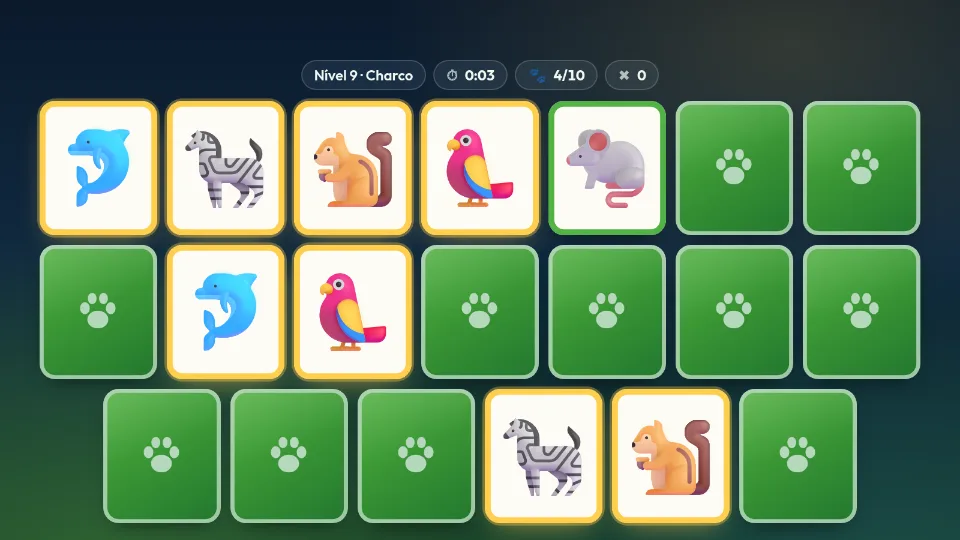
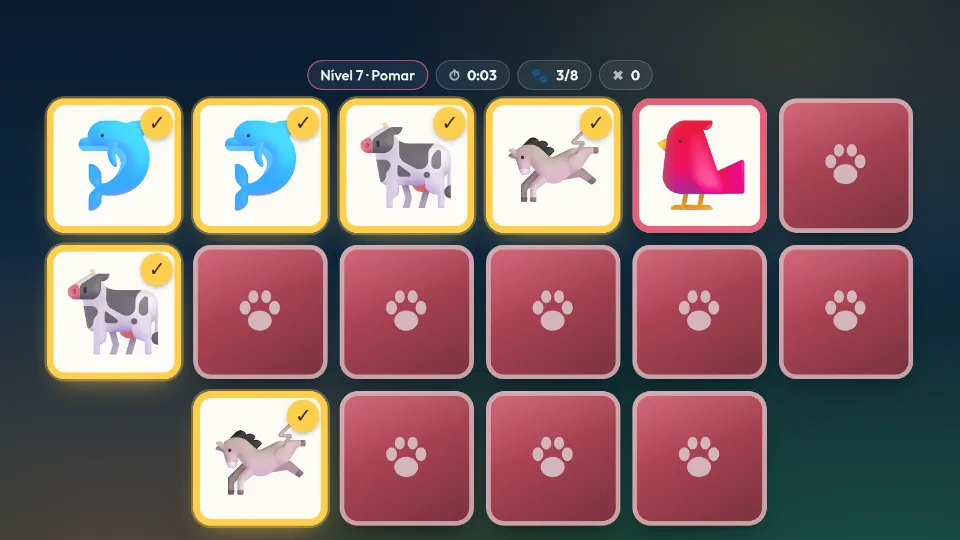
Memória Animal: uma cor por nível e patinhas nas miniaturas
Cada um dos 24 níveis tem a sua cor, a condizer com o nome (a Colmeia é
cor de mel, o Oceano é azul, a Arca é roxa). Enquanto o nível está
apontado ou a ser jogado, é o acento do jogo inteiro: botões, título,
barra de progresso, costas e moldura das cartas e HUD. Vai em
--level-accent no <html>, e os tons escuros saem de color-mix.

- Nos cartões do carrossel, cada nível na sua cor, e a patinha das
  costas desenhada em cada carta da miniatura
- Os pares encontrados levam um visto no canto: nos níveis cor de mel a
  moldura dourada sozinha confundia-se com a normal
- HUD numa linha só num telemóvel ao alto
- Capa nova, no nível 7 (Pomar)

Claude-Session: https://claude.ai/code/session_01HoxUCZ3gVdm8t7CDg86FRW

diff --git a/src/MarquitosArcade/wwwroot/games/memoria-animal/css/theme.css b/src/MarquitosArcade/wwwroot/games/memoria-animal/css/theme.css
@@ -1,7 +1,13 @@
 /*
  * Tokens da Memória Animal — a variante "glass" dos outros jogos da arcada, com
- * os mesmos nomes de token, pintada com as cores da quinta: o verde do prado
- * (o das molduras das cartas de papel) e o azul do céu.
+ * os mesmos nomes de token.
+ *
+ * O acento não é fixo: cada nível tem a sua cor (`accent` em js/levels.js), e
+ * o JS escreve-a em `--level-accent` no <html> sempre que o nível apontado
+ * muda — no menu e ao jogar. Daí descem o `--accent` e as cores das cartas, e o
+ * jogo todo (botões, título, costas e moldura das cartas, carrossel) muda de
+ * cor com o nível: a Colmeia é cor de mel, o Oceano é azul, a Arca é roxa. O
+ * verde do prado é só a cor de partida, antes de o JS correr.
  *
  * Só existe a variante escura, pela mesma razão do Maze Run: os ecrãs estão
  * sempre por cima do tabuleiro, e vidro claro por cima de cartas brancas não
@@ -10,7 +16,7 @@
 
 :root {
     /* acentos */
-    --accent: #7ddc5a;
+    --accent: var(--level-accent, #7ddc5a);
     --accent-2: #4cc3ff;
     --accent-3: #ff7a8a;
     --gold: #ffcf4d;
@@ -33,16 +39,18 @@
     --blur-soft: 10px;
 
     /* o véu que separa o vidro do tabuleiro por trás */
-    --scrim: radial-gradient(ellipse at 50% 18%, rgba(24, 70, 60, 0.55), rgba(5, 12, 20, 0.82) 68%);
+    --scrim: radial-gradient(ellipse at 50% 18%, color-mix(in srgb, var(--accent) 22%, rgba(8, 20, 24, 0.6)), rgba(5, 12, 20, 0.84) 68%);
 
-    --ring: rgba(125, 220, 90, 0.45);
-    --glow: rgba(125, 220, 90, 0.35);
+    --ring: color-mix(in srgb, var(--accent) 45%, transparent);
+    --glow: color-mix(in srgb, var(--accent) 35%, transparent);
 
     /* cartas */
     --card-face: #fdfcf5;
-    --card-frame: #52b346;
-    --card-back-1: #6fd34f;
-    --card-back-2: #2f8d3f;
+    /* As cartas vão buscar a cor do nível: a moldura e as costas, do tom
+       claro em cima para o escuro em baixo. */
+    --card-frame: color-mix(in srgb, var(--accent) 88%, #000);
+    --card-back-1: var(--accent);
+    --card-back-2: color-mix(in srgb, var(--accent) 55%, #0b1410);
     --card-matched: #ffcf4d;
 
     /* geometria */

diff --git a/src/MarquitosArcade/wwwroot/games/memoria-animal/css/board.css b/src/MarquitosArcade/wwwroot/games/memoria-animal/css/board.css
@@ -72,7 +72,7 @@
 }
 
 /*
- * As costas: verde do prado com uma pata ao centro. A pata é um SVG embutido
+ * As costas: a cor do nível com uma pata ao centro. A pata é um SVG embutido
  * (não um emoji) para ser igual em todos os aparelhos, e o risco de luz em cima
  * é o mesmo "vidro" dos painéis.
  */
@@ -94,14 +94,14 @@
     position: absolute;
     inset: 0;
     border-radius: inherit;
-    background: rgba(47, 141, 63, 0.35);
+    background: color-mix(in srgb, var(--card-back-2) 40%, transparent);
     mix-blend-mode: multiply;
 }
 
 .card:hover .cardBack { filter: brightness(1.08); }
 .card:active .cardBack { filter: brightness(0.96); }
 
-/* A face: branca, com a moldura verde das cartas de papel. */
+/* A face: branca, com a moldura das cartas de papel, na cor do nível. */
 .cardFront {
     transform: rotateY(180deg);
     background: var(--card-face);
@@ -127,6 +127,30 @@
         inset 0 0 0 max(3px, calc(var(--card-w, 80px) * 0.05)) var(--card-matched),
         0 0 0 2px rgba(255, 207, 77, 0.35),
         0 10px 24px -10px rgba(255, 207, 77, 0.6);
+}
+
+/*
+ * E um visto no canto. A moldura dourada não chega sozinha: nos níveis cor de
+ * mel (a Colmeia, a Savana) a moldura normal já é quase dourada, e o visto é
+ * o que diz, em qualquer cor, que aquele par já está feito.
+ */
+.card.is-matched .cardFront::after {
+    content: "✓";
+    position: absolute;
+    top: 6%;
+    right: 6%;
+    display: grid;
+    place-items: center;
+    width: max(14px, calc(var(--card-w, 80px) * 0.24));
+    height: max(14px, calc(var(--card-w, 80px) * 0.24));
+    font-family: var(--font-display);
+    font-size: max(9px, calc(var(--card-w, 80px) * 0.15));
+    font-weight: 800;
+    line-height: 1;
+    color: #3b2a00;
+    border-radius: 50%;
+    background: var(--card-matched);
+    box-shadow: 0 2px 6px -2px rgba(0, 0, 0, 0.5);
 }
 
 .card.is-matched { animation: cardMatch 0.5s ease 0.2s both; }

diff --git a/src/MarquitosArcade/wwwroot/games/memoria-animal/js/levels.js b/src/MarquitosArcade/wwwroot/games/memoria-animal/js/levels.js
@@ -11,7 +11,8 @@ import {
 
 /**
  * Um nome por nível, uma palavra cada: aparece no HUD, que num telemóvel é
- * estreito. Vão do ninho à arca — a do Noé, com a bicharada toda.
+ * estreito. Vão do ninho à arca — a do Noé, com a bicharada toda. Um nível a
+ * mais do que os nomes (ou as cores) chamava-se "Nível N" e repetia as cores.
  */
 const NAMES = [
     'Ninho', 'Capoeira', 'Pocilga', 'Curral', 'Estábulo', 'Celeiro',
@@ -21,9 +22,24 @@ const NAMES = [
 ];
 
 /**
+ * A cor de cada nível, a condizer com o nome: a Colmeia é cor de mel, o
+ * Oceano é azul, a Arca é roxa. É o acento do jogo inteiro enquanto o nível
+ * está apontado ou a ser jogado (ver `applyLevelAccent` em level.js). São
+ * todas claras de propósito: o texto dos botões, escuro, tem de se ler em
+ * cima de qualquer uma, e a patinha branca das costas das cartas também.
+ */
+const ACCENTS = [
+    '#f2b35a', '#ff9f5a', '#ff8fb1', '#e8a36b', '#7fb2ff', '#ff7a6b',
+    '#ff6f8a', '#7ddc5a', '#4fd1c5', '#5ab8f2', '#ffcf4d', '#5ccf8e',
+    '#9bd35a', '#c9b458', '#c99a6b', '#8fa9d9', '#b59cf2', '#7fc4a0',
+    '#f2c14e', '#f5a25d', '#3ed598', '#ff7f6e', '#4aa8ff', '#c58cff'
+];
+
+/**
  * @typedef {object} Level
  * @property {number} id Número do nível, a começar em 1.
  * @property {string} name
+ * @property {string} accent A cor do nível.
  * @property {number} cards Cartas no tabuleiro (sempre par).
  * @property {number} pairs
  * @property {number} par Tempo-alvo em segundos.
@@ -39,6 +55,7 @@ for (let cards = FIRST_LEVEL_CARDS, id = 1; cards <= MAX_CARDS; cards += CARDS_S
     LEVELS.push({
         id,
         name: NAMES[id - 1] || `Nível ${id}`,
+        accent: ACCENTS[(id - 1) % ACCENTS.length],
         cards,
         pairs,
         par: pairs * PAR_SECONDS_PER_PAIR,

diff --git a/src/MarquitosArcade/wwwroot/games/memoria-animal/css/controls.css b/src/MarquitosArcade/wwwroot/games/memoria-animal/css/controls.css
@@ -178,9 +178,10 @@ button { cursor: pointer; }
 
 .levelCard:hover { background: var(--glass-bg-hover); transform: translateY(-2px); }
 
+/* Cada cartão tem a cor do seu nível (`--card-accent`, escrita pelo js/menu.js). */
 .levelCard.active {
-    border-color: var(--accent);
-    background: linear-gradient(150deg, rgba(125, 220, 90, 0.2), rgba(76, 195, 255, 0.1));
+    border-color: var(--card-accent, var(--accent));
+    background: linear-gradient(150deg, color-mix(in srgb, var(--card-accent, var(--accent)) 24%, transparent), rgba(255, 255, 255, 0.03));
 }
 
 /*
@@ -223,19 +224,27 @@ button { cursor: pointer; }
     height: 100%;
 }
 
-/* As cartas da miniatura: as costas verdes, como no jogo. */
-.boardShape rect {
-    fill: var(--card-back-1);
-    stroke: rgba(255, 255, 255, 0.75);
+/*
+ * As cartas da miniatura: as costas na cor do nível, com a patinha branca,
+ * como no jogo. A patinha é o símbolo #paw do index.html.
+ */
+.boardShape .tile {
+    fill: var(--card-accent, var(--accent));
+    stroke: rgba(255, 255, 255, 0.8);
     stroke-width: 0.6;
 }
 
-.levelCard.is-done .boardShape rect { fill: var(--card-back-2); stroke: var(--card-matched); }
+.boardShape .paw { fill: rgba(255, 255, 255, 0.85); }
 
-.boardShape.is-locked rect {
-    fill: rgba(241, 247, 238, 0.16);
-    stroke: rgba(241, 247, 238, 0.25);
+/* Nível concluído: a moldura dourada dos pares encontrados. */
+.levelCard.is-done .boardShape .tile { stroke: var(--card-matched); stroke-width: 0.9; }
+
+.boardShape.is-locked .tile {
+    fill: rgba(241, 247, 238, 0.14);
+    stroke: rgba(241, 247, 238, 0.22);
 }
+
+.boardShape.is-locked .paw { fill: rgba(241, 247, 238, 0.18); }
 
 .levelLock {
     position: absolute;

diff --git a/src/MarquitosArcade/wwwroot/games/memoria-animal/js/menu.js b/src/MarquitosArcade/wwwroot/games/memoria-animal/js/menu.js
@@ -60,7 +60,10 @@ function boardPreviewSvg(level, { locked }) {
         const shift = ((cols - inRow) * grid.cardW) / 2;
         const x = x0 + shift + (i % cols) * grid.cardW;
         const y = y0 + row * grid.cardH;
-        rects.push(`<rect x="${x.toFixed(1)}" y="${y.toFixed(1)}" width="${w.toFixed(1)}" height="${h.toFixed(1)}" rx="${(w * 0.18).toFixed(1)}"/>`);
+        rects.push(`<rect class="tile" x="${x.toFixed(1)}" y="${y.toFixed(1)}" width="${w.toFixed(1)}" height="${h.toFixed(1)}" rx="${(w * 0.18).toFixed(1)}"/>`);
+        // A patinha ao centro da carta, com metade da largura dela.
+        const paw = w * 0.56;
+        rects.push(`<use class="paw" href="#paw" x="${(x + (w - paw) / 2).toFixed(1)}" y="${(y + (h - paw) / 2).toFixed(1)}" width="${paw.toFixed(1)}" height="${paw.toFixed(1)}"/>`);
     }
 
     return `<svg class="boardShape${locked ? ' is-locked' : ''}" viewBox="0 0 ${PREVIEW_W} ${PREVIEW_H}"
@@ -88,7 +91,7 @@ function levelCard(level) {
         : `Nível ${level.id}, ${level.name}, ${level.cards} cartas — bloqueado, conclui o nível ${level.id - 1}`;
 
     return `<button type="button" class="levelCard${unlocked ? '' : ' is-locked'}${best ? ' is-done' : ''}"
-        data-value="${level.id}" aria-label="${escapeHtml(label)}">
+        data-value="${level.id}" aria-label="${escapeHtml(label)}" style="--card-accent: ${level.accent}">
         <span class="levelShape">
             ${boardPreviewSvg(level, { locked: !unlocked })}
             ${unlocked ? '' : '<span class="levelLock" aria-hidden="true">🔒</span>'}

diff --git a/src/MarquitosArcade/wwwroot/games/memoria-animal/js/level.js b/src/MarquitosArcade/wwwroot/games/memoria-animal/js/level.js
@@ -44,6 +44,15 @@ function resetGame() {
 }
 
 /**
+ * A cor do nível passa a ser a do jogo todo: o `--accent` do css/theme.css
+ * desce do `--level-accent` do <html>. Chama-se sempre que o nível apontado
+ * muda — no menu e ao começar um nível.
+ */
+export function applyLevelAccent(level) {
+    document.documentElement.style.setProperty('--level-accent', level.accent);
+}
+
+/**
  * O tabuleiro que se vê por trás do vidro nos menus: as cartas do nível
  * apontado, viradas para cima. É só enfeite — ao jogar, baralha-se de novo.
  */
@@ -51,6 +60,7 @@ export function showMenuBoard(levelId) {
     const level = levelById(levelId);
     if (!level) return;
     game.level = level;
+    applyLevelAccent(level);
     game.cards = buildBoard(dealCards(level.pairs));
     for (const card of game.cards) setCardUp(card, true);
     updateHud();
@@ -67,6 +77,7 @@ export function startLevel(levelId) {
     resetGame();
     const mine = generation;
     game.level = level;
+    applyLevelAccent(level);
     game.phase = 'loading';
     game.cards = buildBoard(dealCards(level.pairs));
     els.playArea.classList.add('is-live');

diff --git a/src/MarquitosArcade/wwwroot/games/memoria-animal/index.html b/src/MarquitosArcade/wwwroot/games/memoria-animal/index.html
@@ -45,6 +45,18 @@
 </head>
 
 <body>
+    <!-- A patinha das costas das cartas, para as miniaturas dos tabuleiros no
+         carrossel dos níveis (js/menu.js). É a mesma do css/board.css. -->
+    <svg width="0" height="0" style="position:absolute" aria-hidden="true" focusable="false">
+        <symbol id="paw" viewBox="0 0 64 64">
+            <ellipse cx="32" cy="42" rx="13" ry="11"/>
+            <ellipse cx="16" cy="28" rx="6" ry="7.5"/>
+            <ellipse cx="48" cy="28" rx="6" ry="7.5"/>
+            <ellipse cx="25" cy="16" rx="5.5" ry="7"/>
+            <ellipse cx="39" cy="16" rx="5.5" ry="7"/>
+        </symbol>
+    </svg>
+
     <!-- Ecrã de arranque: fica no ar pelo menos 2s (ver lib/arcade/splash.js). -->
     <div id="arcadeSplash" class="arcade-splash">
         <div class="arcade-splash-rays" aria-hidden="true"></div>

diff --git a/src/MarquitosArcade/wwwroot/games/memoria-animal/css/hud.css b/src/MarquitosArcade/wwwroot/games/memoria-animal/css/hud.css
@@ -101,7 +101,7 @@
 
 .hudChip i { font-style: normal; font-size: 12px; }
 .hudChip b { color: var(--text); font-weight: 700; font-variant-numeric: tabular-nums; }
-.hudChip--level { color: var(--text); }
+.hudChip--level { color: var(--text); border-color: color-mix(in srgb, var(--accent) 65%, transparent); }
 
 /*
  * A mensagem por cima do HUD: "Olha bem…" na pré-visualização e o nome do
@@ -144,6 +144,13 @@
     .hudChip { padding: 4px 10px; font-size: 12px; }
 }
 
-@media (max-width: 380px) {
+/* Telemóvel ao alto: as quatro pastilhas têm de caber numa linha — cada linha
+   a mais é altura que as cartas perdem. */
+@media (max-width: 440px) {
+    .hud { gap: 5px; }
     .hudChip { padding: 5px 9px; font-size: 12px; gap: 4px; }
+}
+
+@media (max-width: 360px) {
+    .hudChip { padding: 4px 7px; font-size: 11px; }
 }

diff --git a/src/MarquitosArcade/wwwroot/games/memoria-animal/css/base.css b/src/MarquitosArcade/wwwroot/games/memoria-animal/css/base.css
@@ -80,7 +80,7 @@ html, body {
 body {
     background:
         radial-gradient(60vmax 40vmax at 82% 8%, rgba(255, 207, 77, 0.16), transparent 70%),
-        radial-gradient(80vmax 50vmax at 12% 104%, rgba(125, 220, 90, 0.28), transparent 70%),
+        radial-gradient(80vmax 50vmax at 12% 104%, color-mix(in srgb, var(--accent) 26%, transparent), transparent 70%),
         radial-gradient(70vmax 40vmax at 92% 110%, rgba(76, 195, 255, 0.18), transparent 70%),
         linear-gradient(180deg, #0b1a2c 0%, #10293f 46%, #123524 100%);
 }

diff --git a/src/MarquitosArcade/wwwroot/games/memoria-animal/css/screens.css b/src/MarquitosArcade/wwwroot/games/memoria-animal/css/screens.css
@@ -90,7 +90,7 @@
     font-size: 26px;
     border: 1px solid var(--glass-border-strong);
     border-radius: 18px;
-    background: linear-gradient(150deg, rgba(125, 220, 90, 0.3), rgba(76, 195, 255, 0.22));
+    background: linear-gradient(150deg, color-mix(in srgb, var(--accent) 32%, transparent), rgba(76, 195, 255, 0.2));
 }
 
 .title {

diff --git a/README.md b/README.md
@@ -829,7 +829,19 @@ alto, 3 × 1 ao comprido, 3 × 2 no computador —, com o carrossel partilhado d
 SDK (`lib/arcade/carousel.js`) e a folha `css/carousel.css` gémea da do Maze
 Run (ver [O carrossel dos níveis](#o-carrossel-dos-níveis)). Onde o Maze Run
 desenha o labirinto, aqui vai o tabuleiro em miniatura: as cartas do nível na
-grelha que o `fitGrid` lhes dá num telemóvel ao alto.
+grelha que o `fitGrid` lhes dá num telemóvel ao alto, com a patinha das costas
+em cada uma (o símbolo `#paw` no `index.html`).
+
+**Cada nível tem a sua cor.** O `accent` de cada nível (`ACCENTS` em
+`js/levels.js`) condiz com o nome — a Colmeia é cor de mel, o Oceano é azul, a
+Arca é roxa — e passa a ser o acento do jogo inteiro enquanto o nível está
+apontado ou a ser jogado: o `applyLevelAccent` do `js/level.js` escreve-o em
+`--level-accent` no `<html>`, e o `--accent` e as cores das cartas do
+`css/theme.css` descem dele (com `color-mix` para os tons escuros). Botões,
+título, barra de progresso, costas e moldura das cartas mudam todos juntos. As
+cores são todas claras de propósito: o texto escuro dos botões e a patinha
+branca têm de se ler em cima de qualquer uma. Nos cartões do carrossel, cada
+um leva a cor do seu nível em `--card-accent`.
 
 **Estrelas pelos erros, pontos pelo resto.** Um erro é uma jogada de duas
 cartas sem par. ★ por concluir, ★★ com tantos erros como pares ou menos, ★★★
